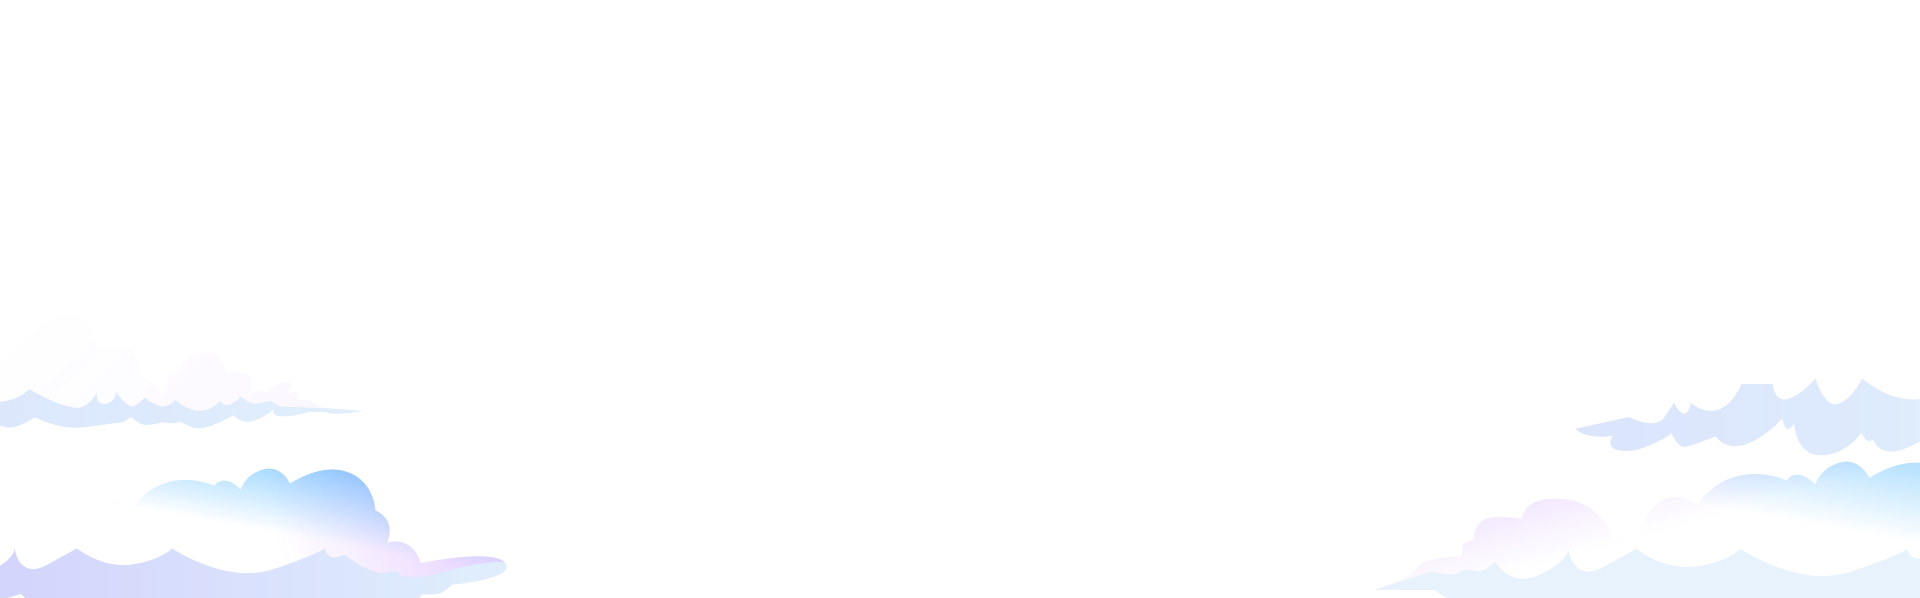
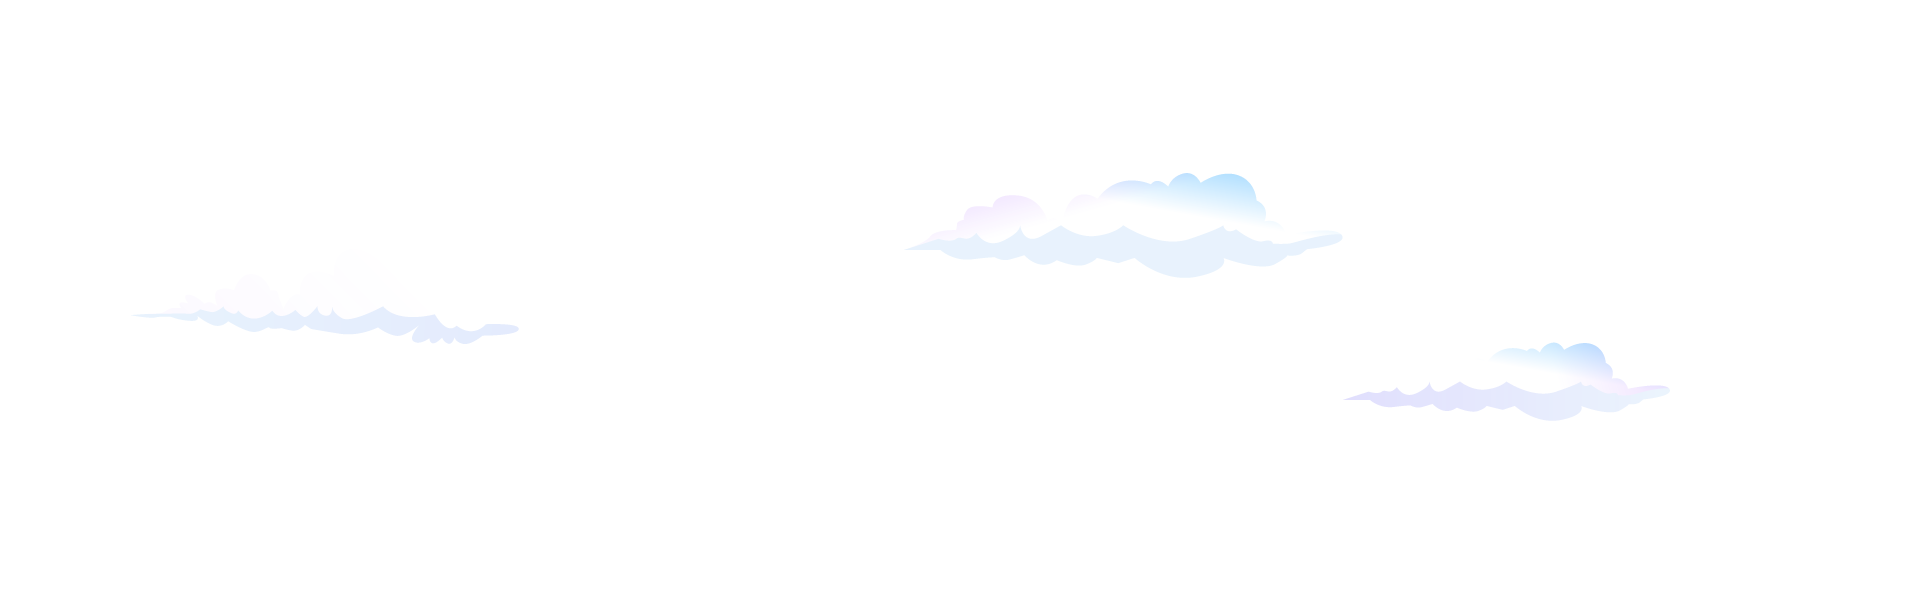
求籤漂浮雲朵改簡單、中間重點上下漂浮（第一版）

diff --git a/sass/page/moondrawl/_all.scss b/sass/page/moondrawl/_all.scss
@@ -1,6 +1,5 @@
 // =================== 宗耘求籤.scss ======================================
 
-
 .large_line{
     width:100%;
     height: 100%;
@@ -118,10 +117,21 @@
                     }
                 }
 
-                //R的時候燈籠要縮小(510px)
 
                 .duelbox{
+
                     display: none;
+                    // border :1px solid red;
+                    position: relative;
+
+                    //上下浮動
+                    @keyframes moveupdown_duelbox{
+                        from { top: 0.07%; }
+                        to { top: 1.5%; }
+                    }
+
+                    animation: moveupdown_duelbox 1s infinite linear alternate;
+
 
                     //中間區域雲朵
                     .cloud{
@@ -401,6 +411,7 @@
 //月老第一/二頁對話框
 .god_talk{
 
+
     width:500px;
     // border: 1px solid green;
     position: absolute;
@@ -409,8 +420,14 @@
     display: inline-flex;
     display: none;
 
-    // display:none;
 
+    //月老上下浮動動畫
+    // animation: moveupdown 1s infinite linear alternate;
+
+    // @keyframes moveupdown{
+    //     from { bottom: 0.5%; }
+    //     to { bottom: 0; }
+    // }
 
         .talk{
             width: 260px;
@@ -427,7 +444,6 @@
 
             h3{
                 font-size: map-get($font_size, 'h3');
-
                 padding-right: 10px;
                 padding-bottom: 20px;
                
@@ -450,9 +466,8 @@
 .god_talk.-on{
     display: inline-flex;
 }
+//結果頁月老同上
 
-
-    //結果頁月老同上
 
 
     // 中間1200區域結尾
@@ -461,8 +476,11 @@
 //.large_line最大範圍結尾
 }
 
-//js背景動畫雲
+
+//背景動畫雲
 .moonDrawLots_bk_color{
+
+    //酪梨姊姊雲
     .backCloud {
         position: fixed;
         bottom: 0;
@@ -475,7 +493,7 @@
       }
 
       
-      //整體雲移動
+      //整體雲keyframe移動
       .cloud_one{
         background-image: url(../images/moondrawl/step_1/cloud_one.png);
         position: absolute;
@@ -484,8 +502,8 @@
         width: 100%;
         background-size:cover;
         animation: move 100s infinite linear alternate;
-        z-index: -5;
-        opacity: .5;
+        z-index: -3;
+        opacity: .6;
 
         @keyframes move{
             100%{background-position: 500% 0;}
@@ -500,7 +518,7 @@
         width: 100%;
         background-size:cover;
         animation: move 100s infinite linear alternate;
-        z-index: -4;
+        z-index: -2;
         opacity: .4;
 
 

diff --git a/sass/page/know/_all.scss b/sass/page/know/_all.scss
@@ -409,6 +409,7 @@
         }
     }
 
+    //背景放大縮小雲
     .backCloud {
         position: fixed;
         width:100%;
@@ -431,7 +432,7 @@
     .know_wrapper_bk_color{
         position: relative;
 
-        //整體雲移動
+      //整體雲移動
       .cloud_one{
         background-image: url(../images/know/one_page/cloud_one.png);
         position: absolute;
